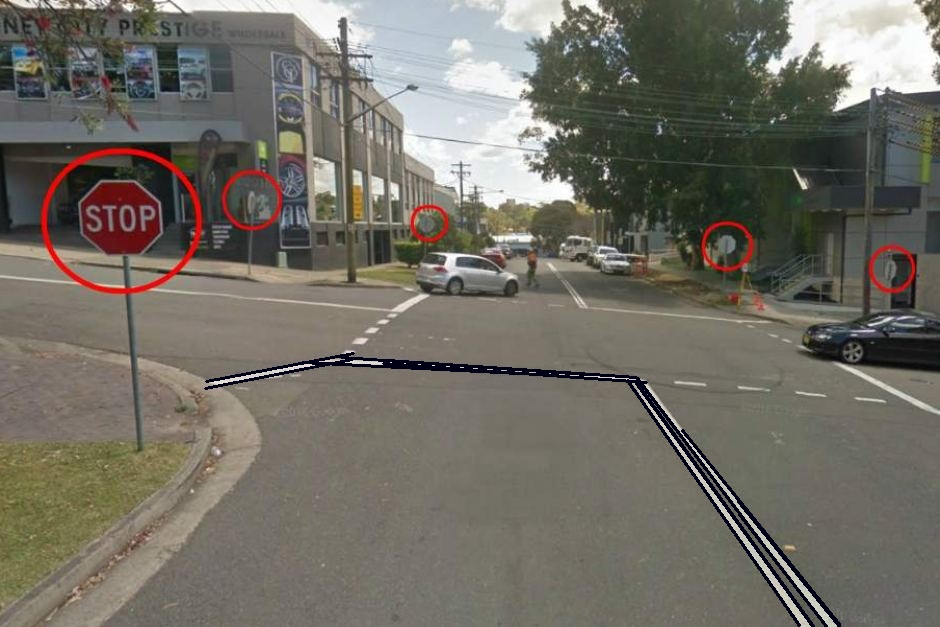
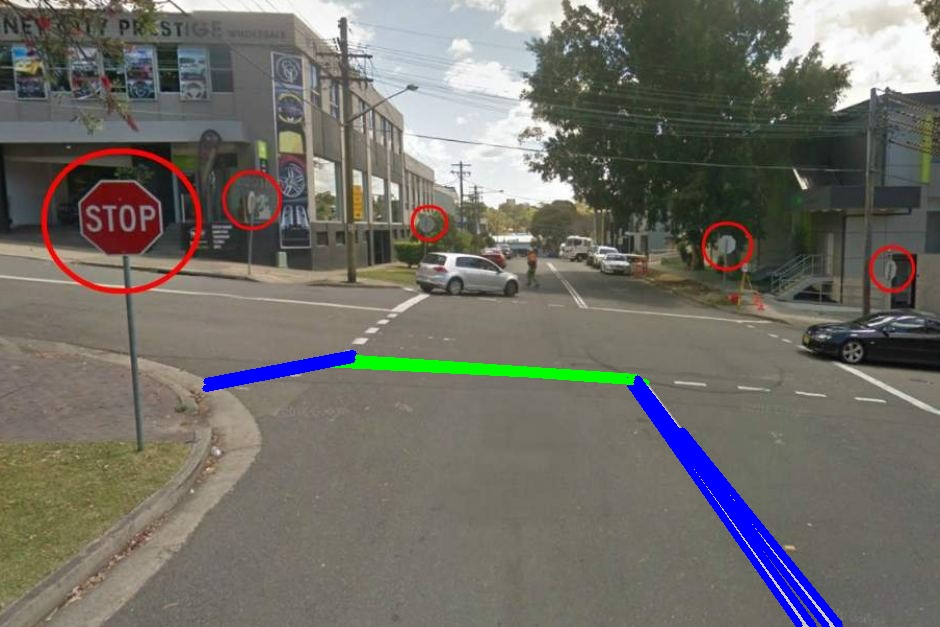
wip

Changed region(s): [[0.216, 0.5455, 0.8947, 1.0]]

diff --git a/stopline_track.py b/stopline_track.py
@@ -112,18 +112,21 @@ edges = cv2.Canny(mask, 200, 400)
 
 focus_edges = selectROI(edges)
 lines = cv2.HoughLinesP(focus_edges,1,np.pi/180,80,minLineLength=100,maxLineGap=30)
-k=20
-
-for line in lines:
-	x1,y1,x2,y2 = line[0]
-	cv2.line(frame,(x1,y1),(x2,y2),(k+2,0,0),2)
-
+#http://opencvexamples.blogspot.com/2013/10/line-detection-by-hough-line-transform.html
+try:#for real time in case no lines detected
+	for line in lines:
+		x1,y1,x2,y2 = line[0]
+		theta = line[0][1]-360
+		print(theta)
+		if theta > 170 or theta < 10:
+		#if theta > np.pi/180 * 170 or theta < np.pi/180 * 10: #vertical lines
+			cv2.line(frame,(x1,y1),(x2,y2),(0,255,0),5)
+		elif theta > 10 and theta < 170: 
+		#elif theta > np.pi/180 * 20 and theta < np.pi/180 * 160: #horizontal lines
+			cv2.line(frame,(x1,y1),(x2,y2),(255,0,0),5)
+except: 
+	pass
 # Separate into stop lines and lane lines.
-vert_lines = cv2.HoughLinesP(focus_edges,1,np.pi/180,80,minLineLength=100,maxLineGap=30)
-
-#for line in lines:
-#    x1,y1,x2,y2 = line[0]
-#    cv2.line(frame,(x1,y1),(x2,y2),(255,0,0),2)
 
 
 
